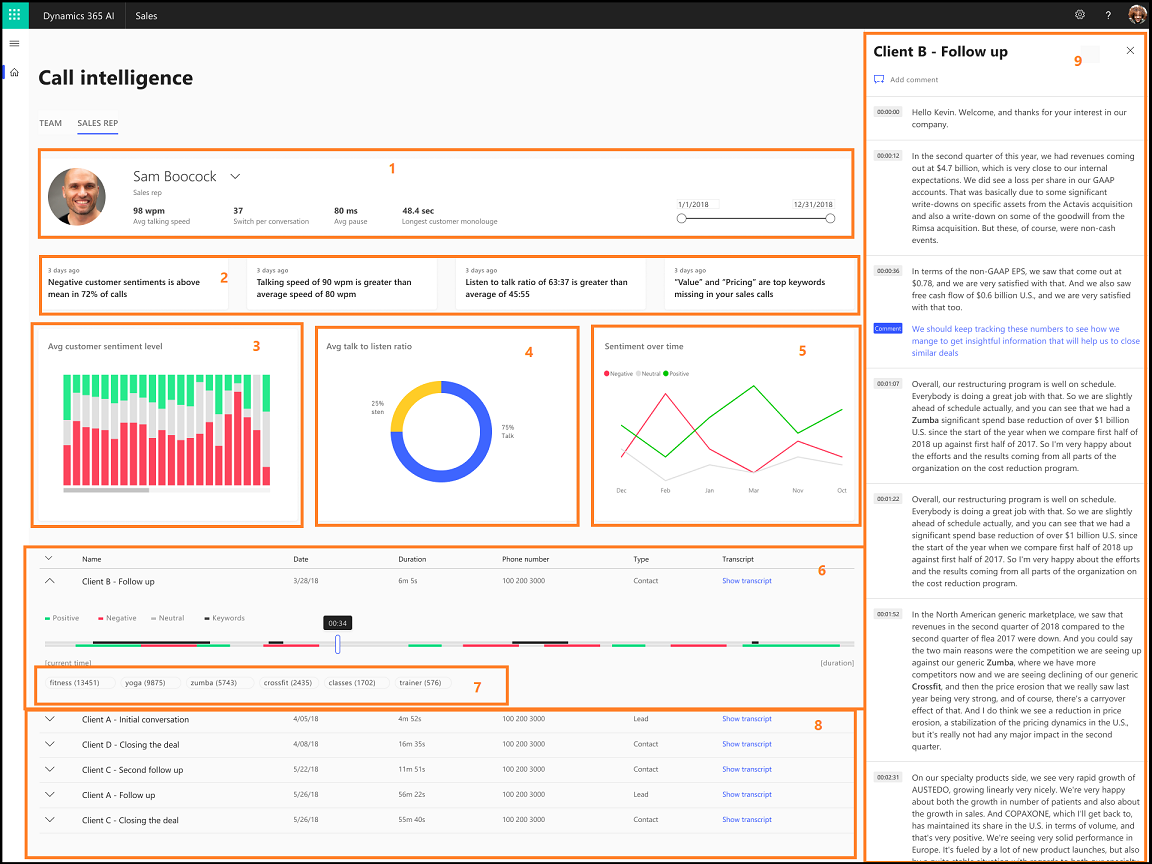
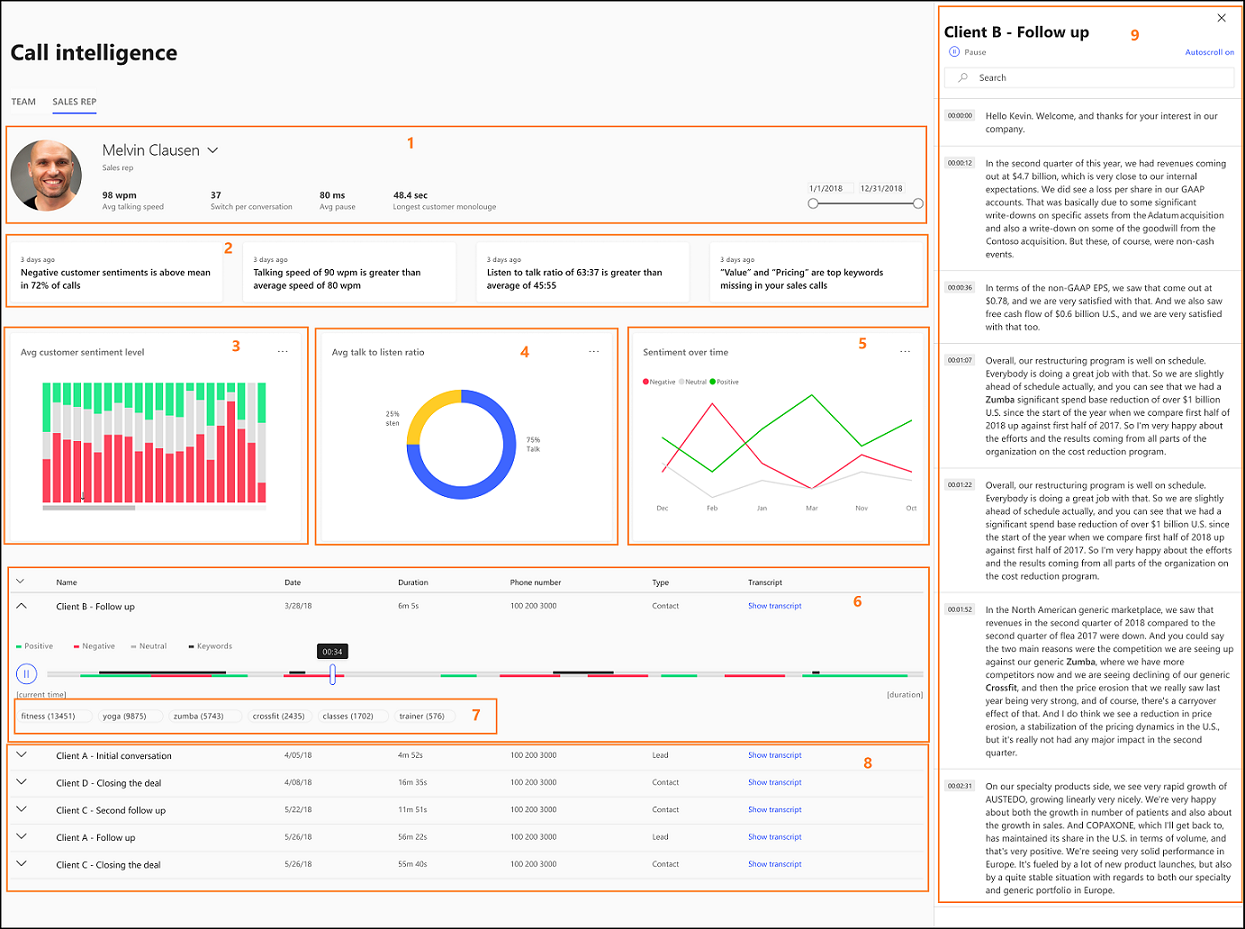
updated call intelligece

Changed region(s): [[0.0, 0.0, 1.0, 1.0], [0.625, 0.4375, 0.6875, 0.4688]]

diff --git a/ai-docs/sales/call-intelligence.md b/ai-docs/sales/call-intelligence.md
@@ -24,9 +24,7 @@ topic-status: Drafting
 
 Applies to Dynamics 365 (online), version 9.1.0
 
-<!--from editor: Changed the first sentence to "Sales calls are an important part ..." instead of "the most important part," because that might not be the case for every business customer.-->
-
-Sales calls are an important part of your business. They help you grow your business by improving sales and generating revenue. [!INCLUDE[pn-dynamics-ai-sales](../includes/pn-dynamics-ai-sales.md)] provides you with **Call intelligence**, an intelligent solution to analyze these calls. Analyzing the data from Call intelligence helps you to:
+The important part of your business is sales calls. They help you grow your business by improving sales and generating revenue. [!INCLUDE[pn-dynamics-ai-sales](../includes/pn-dynamics-ai-sales.md)] provides you with **Call intelligence**, an intelligent solution to analyze these calls. Analyzing the data from Call intelligence helps you to:
 
 - Increase sales wins.
 - Reduce new salesperson ramp-up time. 
@@ -45,9 +43,6 @@ As a sales manager, you can open the **Call intelligence** feature to view the o
 <!---	Comment on call transcripts and share with sales reps-->
 
 To view the KPIs and insights of Call intelligence, go to **Call intelligence** in the **Dynamics 365 AI for Sales** app. 
-
-<!--from editor: In the following image, is the name Sam Smith from an approved fictitious names list?-->
-
 
 > [!div class="mx-imgBorder"]
 > ![Call intelligence teams view](media/callintelligence-teams.png "Call intelligence teams view")
@@ -76,10 +71,6 @@ Open the **Sales rep** view to drill down into each individual sales rep to asse
 
 Select the name of the sales rep from the drop-down list to view that rep's performance information.
 
-
-<!--from editor: in the following image, is Sam Boocock from an approved fictitious names list? Also, are Rimsa and Actavis approved fictitious company names?-->
-
-
 > [!div class="mx-imgBorder"]
 > ![Call intelligence sales rep view](media/callintelligence-salesrep.png "Call intelligence sales rep view")
 
@@ -95,7 +86,7 @@ Select the name of the sales rep from the drop-down list to view that rep's perf
 |**8. Calls**|Displays the list of calls handled by the sales rep. Select the call to display the transcript and timeline. |
 |**9. Transcript**|Provides a written record of the call that you selected.<!--<br>• Select **Add comment** to provide necessary inputs to the sales rep at the selected timeline.-->|
 
-<!--from editor: Unhide heding when link is available
+<!--
 ### See also
--->
-<!--link to the d365 AI for sales admin guide>
+
+link to the d365 AI for sales admin guide-->
